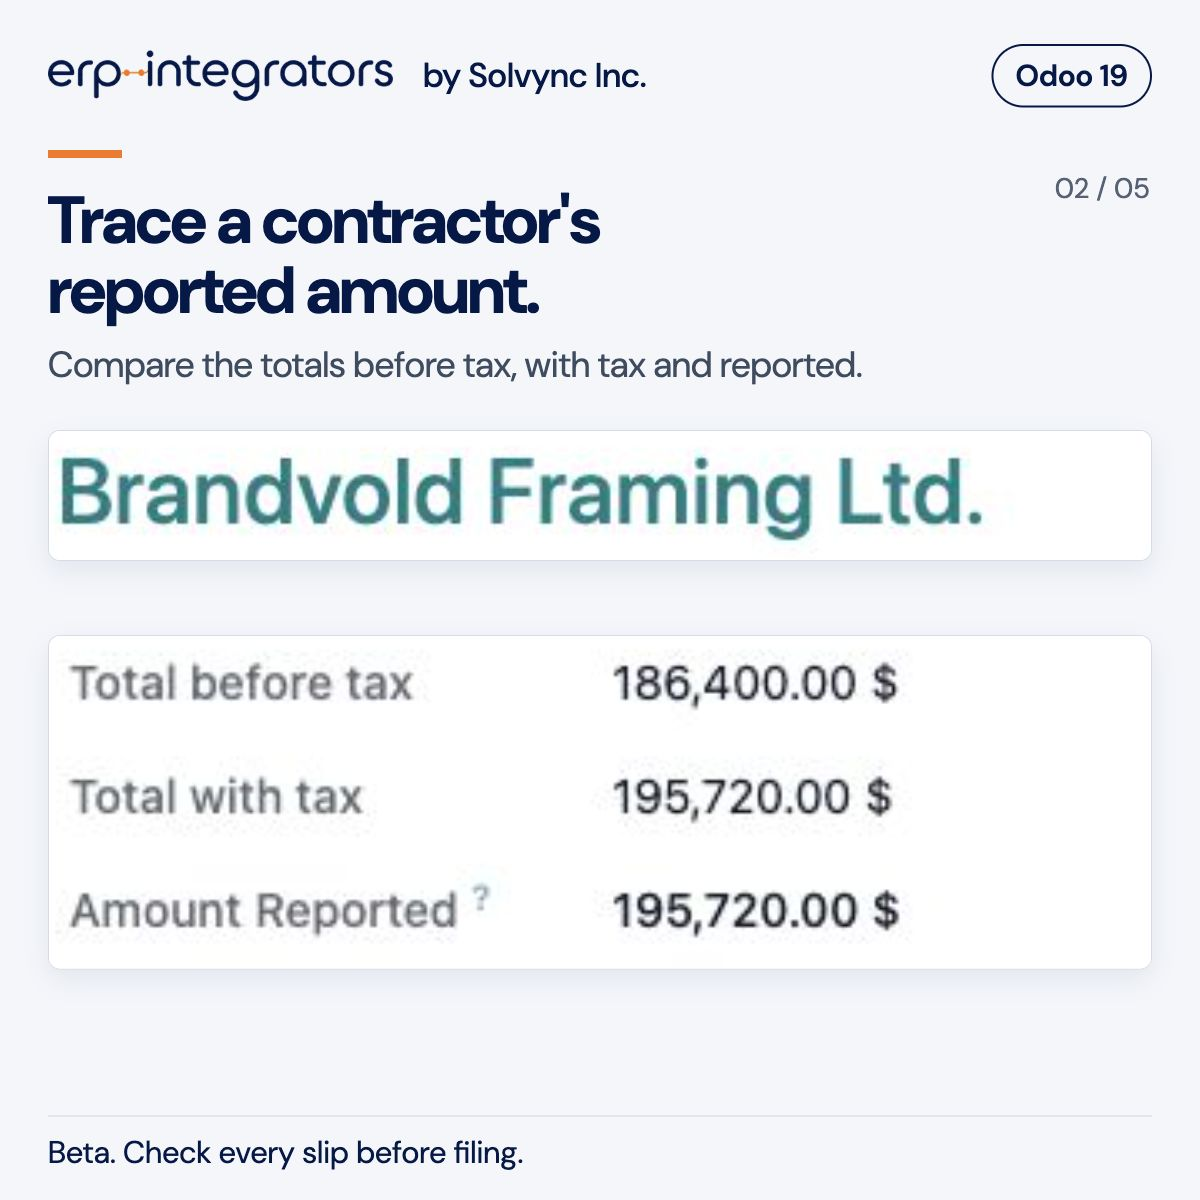
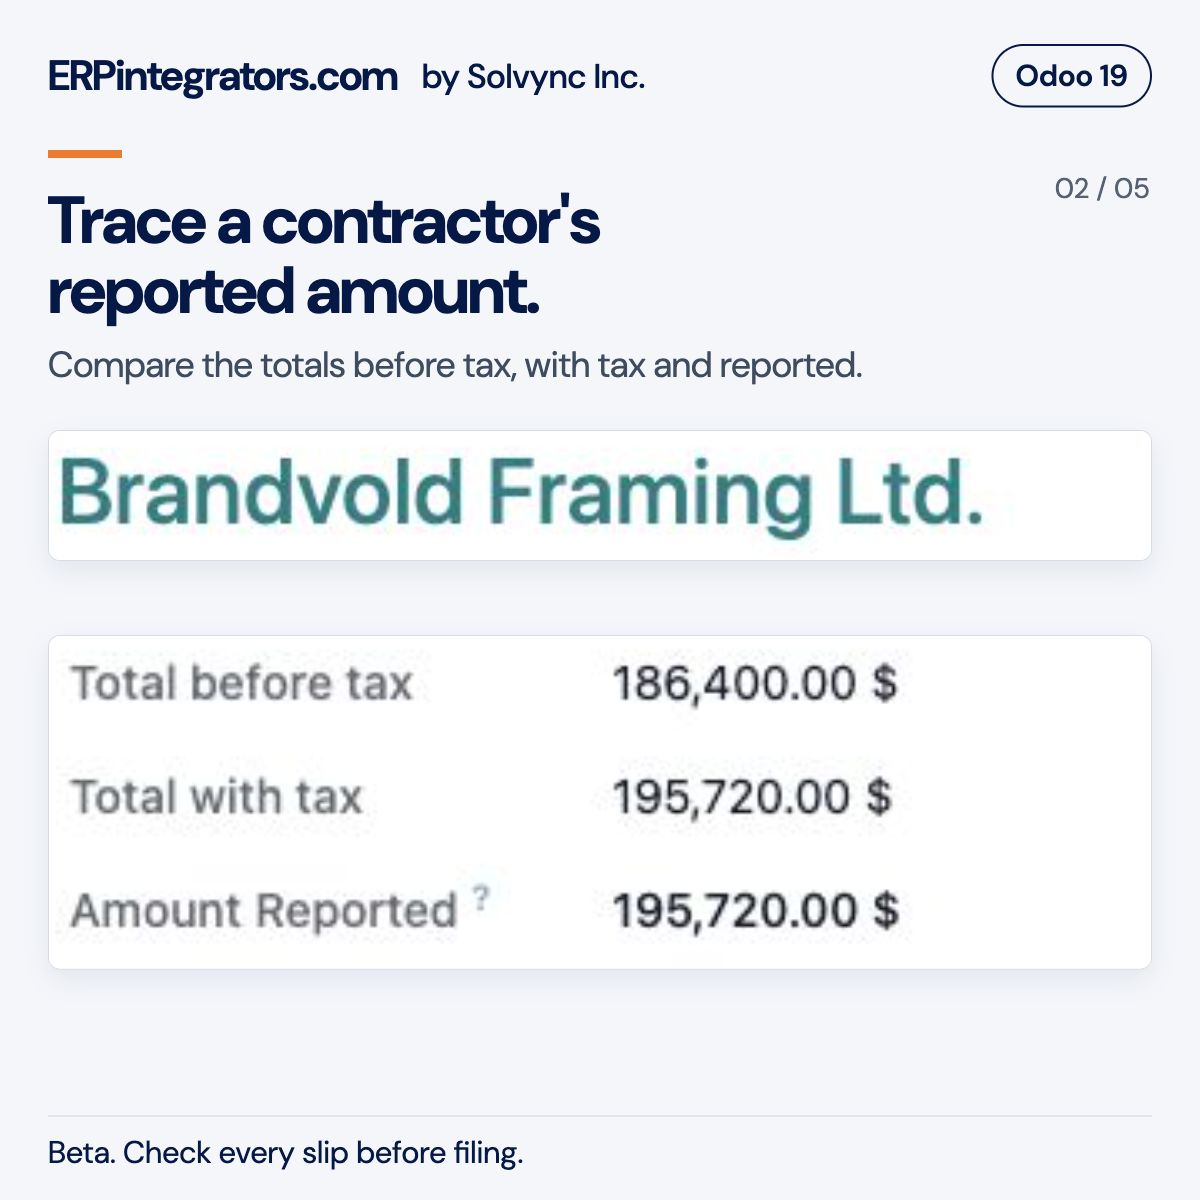
Use ERPintegrators.com publisher name

Changed region(s): [[0.0308, 0.0308, 0.5242, 0.0925]]

diff --git a/l10n_ca_contractor_slips/static/description/index.html b/l10n_ca_contractor_slips/static/description/index.html
@@ -1,6 +1,6 @@
 <h1 id="t4a-and-t5018-slips">T4A and T5018 Slips</h1>
 <p>License: LGPL-3</p>
-<p><strong>ERP Integrators</strong> | by <strong>Solvync
+<p><strong>ERPintegrators.com</strong> | by <strong>Solvync
 Inc.</strong></p>
 <p>Prepare T4A box 048 and T5018 contractor tax slips in Odoo 19, using
 the vendor payments recorded in your accounting. Review each

diff --git a/l10n_ca_contractor_slips/__manifest__.py b/l10n_ca_contractor_slips/__manifest__.py
@@ -5,7 +5,7 @@
     "summary": "T4A box 048 and T5018 contractor tax slips for Odoo, with payment traces, CRA XML and recipient PDFs",
     "version": "19.0.1",
     "category": "Accounting/Localizations/Reporting",
-    "author": "ERP Integrators (Solvync Inc.)",
+    "author": "ERPintegrators.com (Solvync Inc.)",
     "website": "https://erpintegrators.com",
     "support": "info@erpintegrators.com",
     "license": "LGPL-3",

diff --git a/README.md b/README.md
@@ -1,6 +1,6 @@
 # T4A and T5018 Slips
 
-**ERP Integrators** | by **Solvync Inc.**
+**ERPintegrators.com** | by **Solvync Inc.**
 
 T4A box 048 and T5018 slips for Odoo 19 Community and Enterprise, calculated from the vendor
 payments you actually made, with the CRA XML file validated against CRA's published schemas,
@@ -57,7 +57,7 @@ text only, and their presence on a slip says nothing about CRA approval of this 
 
 ## Publisher and project links
 
-Published through [ERP Integrators](https://erpintegrators.com), a Solvync Inc. brand.
+Published through [ERPintegrators.com](https://erpintegrators.com), a Solvync Inc. brand.
 The module is developed and maintained by [Solvync](https://solvync.com).
 For setup questions or a defect report, email [info@erpintegrators.com](mailto:info@erpintegrators.com).
 Include your Odoo version and the steps to reproduce the issue. Remove SINs and other personal

diff --git a/l10n_ca_contractor_slips/README.rst b/l10n_ca_contractor_slips/README.rst
@@ -4,7 +4,7 @@ T4A and T5018 Slips
 
 License: LGPL-3
 
-**ERP Integrators** \| by **Solvync Inc.**
+**ERPintegrators.com** \| by **Solvync Inc.**
 
 Prepare T4A box 048 and T5018 contractor tax slips in Odoo 19, using the
 vendor payments recorded in your accounting. Review each contractor's

diff --git a/l10n_ca_contractor_slips/readme/DESCRIPTION.md b/l10n_ca_contractor_slips/readme/DESCRIPTION.md
@@ -1,4 +1,4 @@
-**ERP Integrators** | by **Solvync Inc.**
+**ERPintegrators.com** | by **Solvync Inc.**
 
 Prepare T4A box 048 and T5018 contractor tax slips in Odoo 19, using the vendor payments
 recorded in your accounting. Review each contractor's total, trace the bills and payments behind
